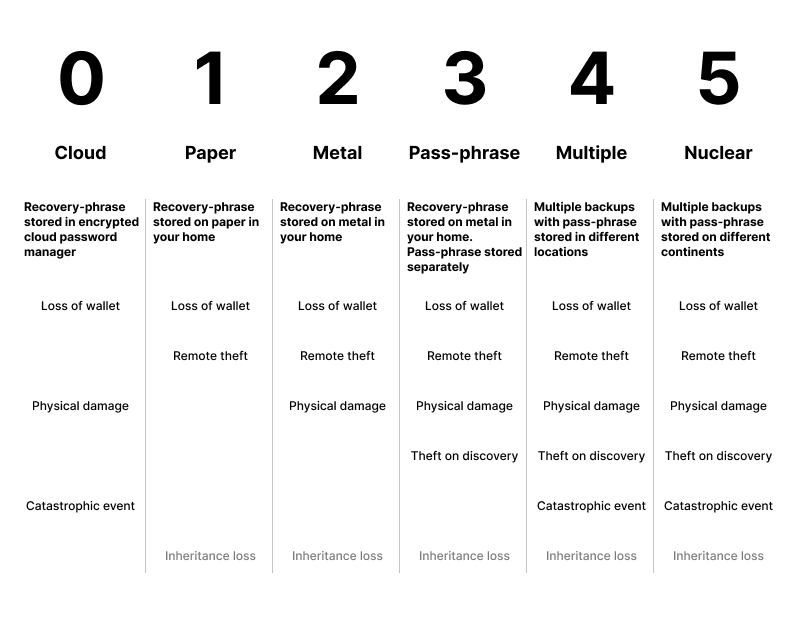
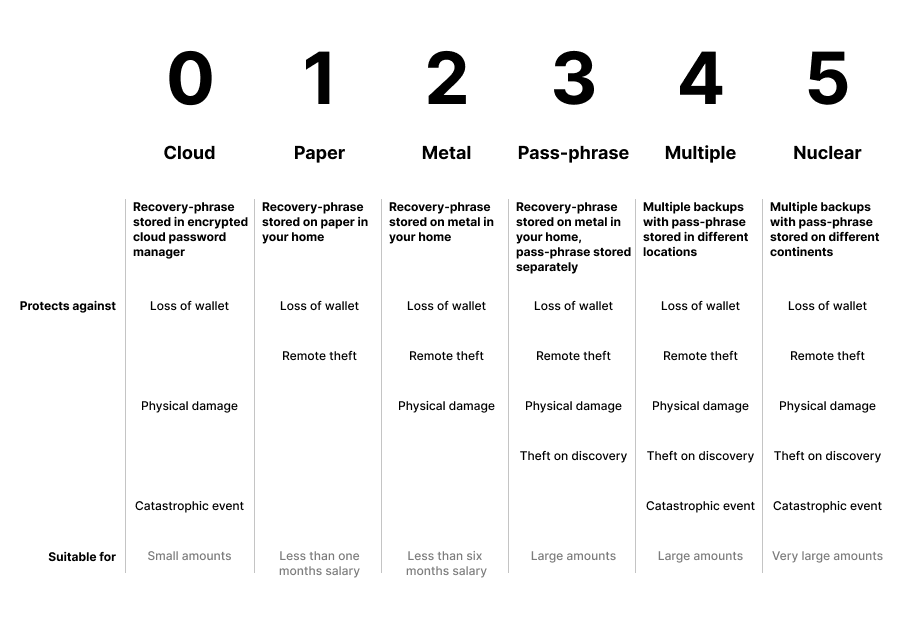
Updated table of backup levels

diff --git a/guide/foundations/backups.md b/guide/foundations/backups.md
@@ -65,6 +65,9 @@ Let’s look at some real life examples of backup methods for single-key wallets
    image = "/assets/images/guide/foundations/backups/backup-table.png"
    retina = "/assets/images/guide/foundations/backups/backup-table@2x.png"
    alt-text = "Table of backup levels"
+   width = 904
+   height = 625
+   layout = "full-width"
 %}
 
 <br>
